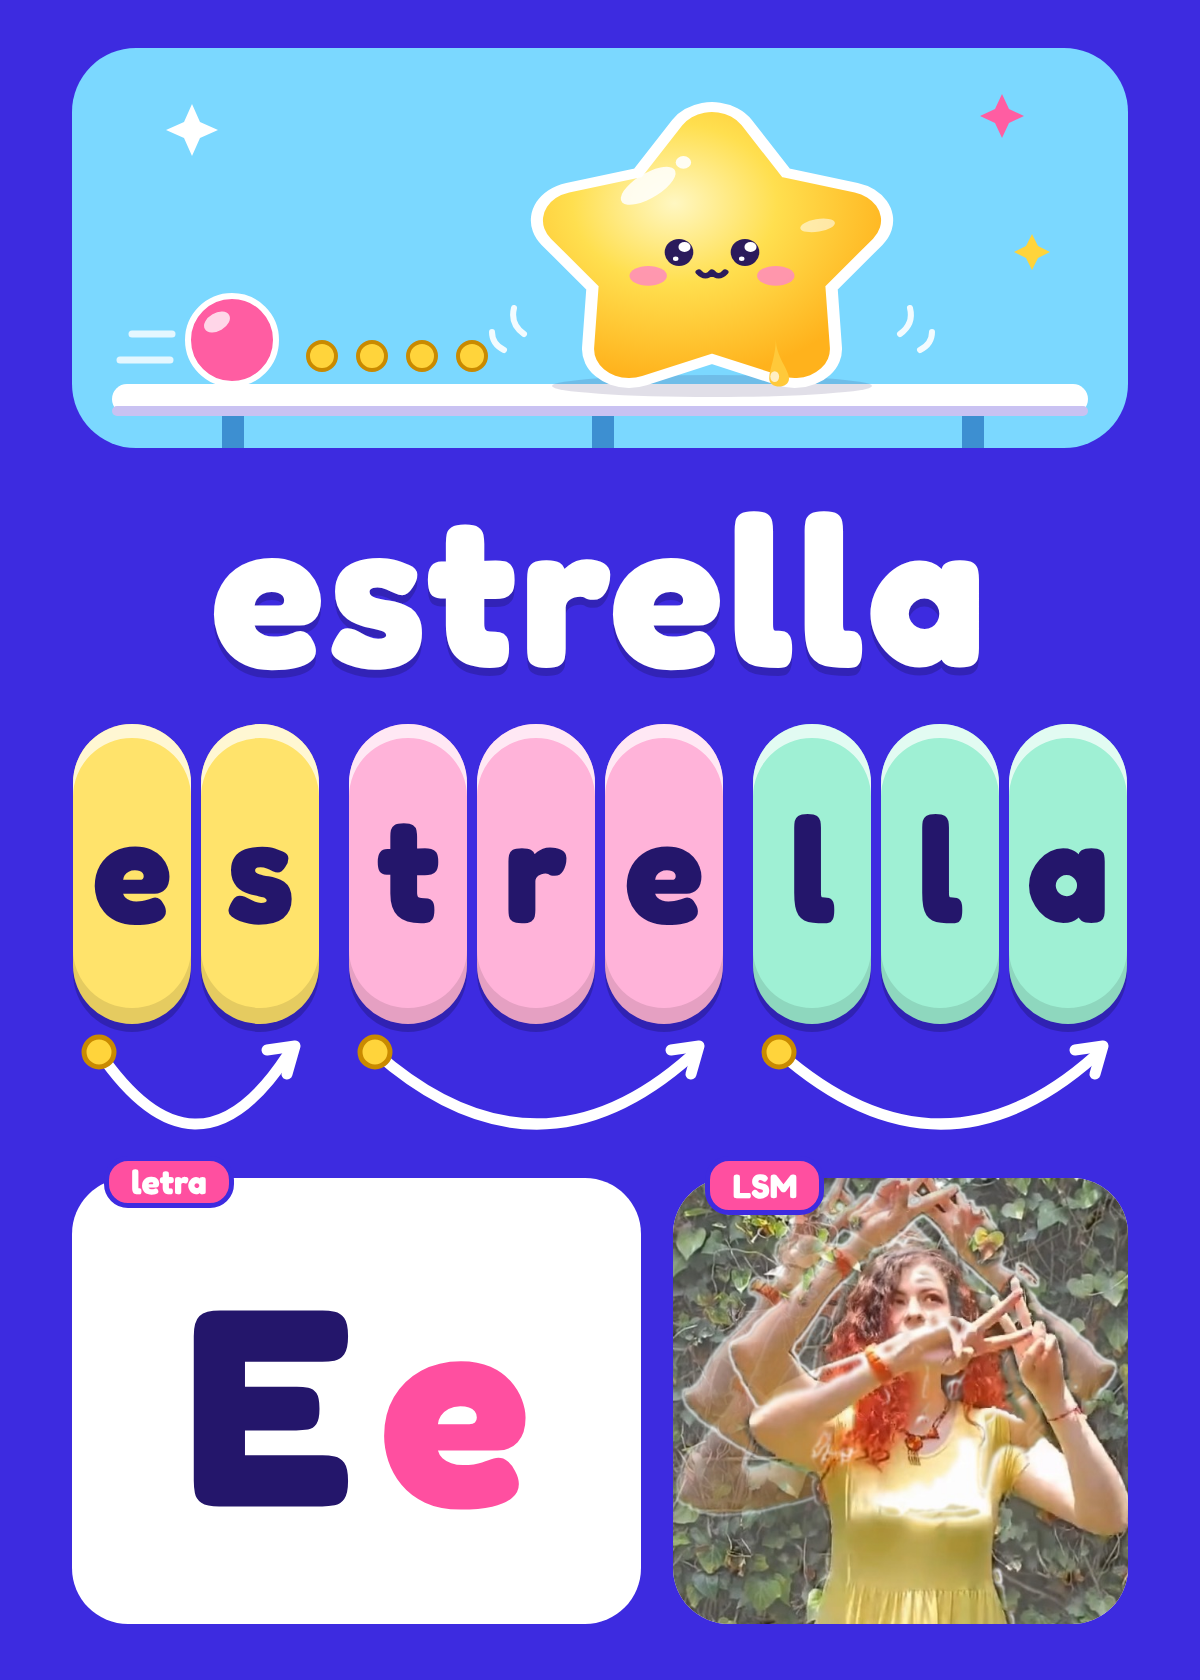
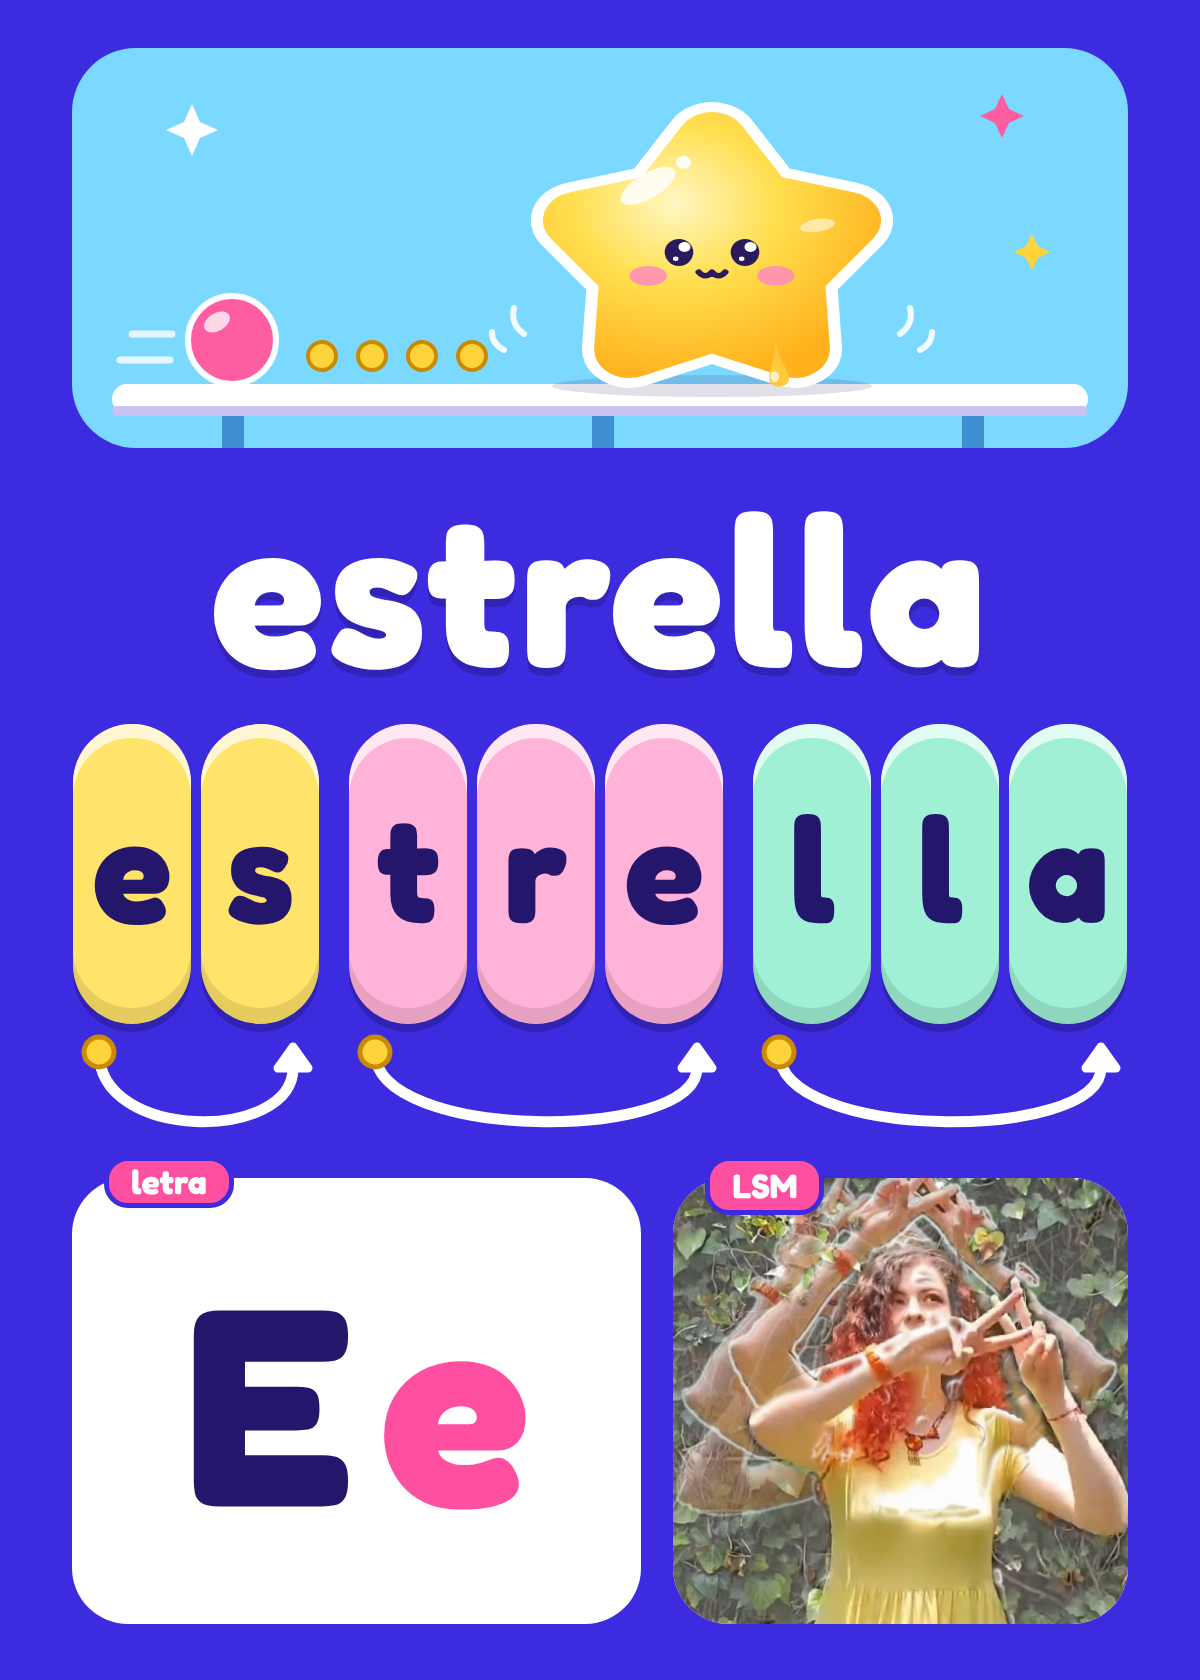
Arco de sílaba más redondo (sonrisa) con punta de flecha suave
Claude-Session: https://claude.ai/code/session_015Bpbc8EAm3Wz5jihEE32WP

diff --git a/generar.js b/generar.js
@@ -38,8 +38,8 @@ function fichas(silabas, c) {
     const w = s.length * ancho + (s.length - 1) * 10;
     const x0 = Math.min(26, w * .2), x1 = w - x0;
     const arco = `<svg class="arco" width="${w}" height="96" viewBox="0 0 ${w} 96">
-      <path d="M${x0} 14 Q${w / 2} 156 ${x1 - 6} 18" fill="none" stroke="#fff" stroke-width="11" stroke-linecap="round"/>
-      <path d="M${x1 - 26} 12 L${x1 + 2} 8 L${x1 - 6} 36" fill="none" stroke="#fff" stroke-width="11" stroke-linecap="round" stroke-linejoin="round"/>
+      <path d="M${x0} 14 C${x0} 104 ${x1} 104 ${x1} 30" fill="none" stroke="#fff" stroke-width="11" stroke-linecap="round"/>
+      <path d="M${x1 - 15} 30 L${x1 + 15} 30 L${x1} 9 Z" fill="#fff" stroke="#fff" stroke-width="9" stroke-linejoin="round"/>
       <circle cx="${x0}" cy="14" r="15" fill="#FFD43B" stroke="#C98A00" stroke-width="5"/>
     </svg>`;
     return `<div class="silaba"><div class="letras">${letrasHtml}</div>${arco}</div>`;
